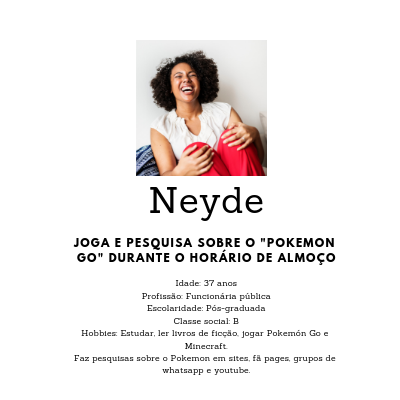
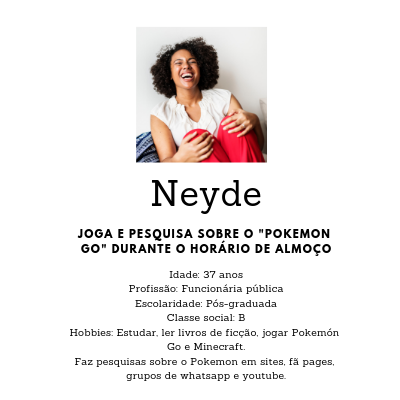
melhoria na diagramação de persona

Changed region(s): [[0.18, 0.09, 0.84, 0.96]]

diff --git a/README.md b/README.md
@@ -9,7 +9,7 @@ Segundo projeto desenvolvido no curso de Desenvolvedoras Front-End para o Bootca
 
 * [Organização](#organização)
 * [Checklist](#checklist)
-* [Persona](#persona)
+* [Personas](#persona)
 * [Definição do produto](#definição-do-produto)
 * [Protótipo](#protótipo)
 * [Testes de usabilidade](#testes-de-usabilidade)
@@ -36,10 +36,10 @@ Em ambas situações, dividimos o projeto em mini partes e as mesmas foram divid
   (asc e desc).
 * [ ] UI: Permite filtrar os dados com base em uma condição.
 
-## Persona
+## Personas
 
-![Bruno](docs/persona-bruno.png)
-![Neyde](docs/persona-neyde.png)
+![Bruno](../docs/persona-bruno.png)
+![Neyde](../docs/persona-neyde.png)
 
 ## Definição do produto
 
